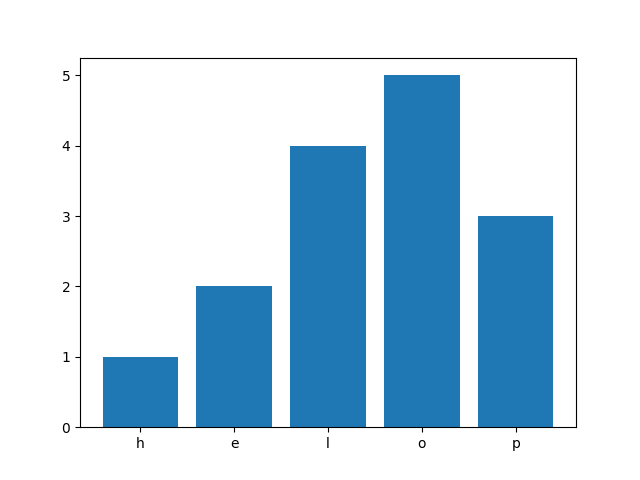
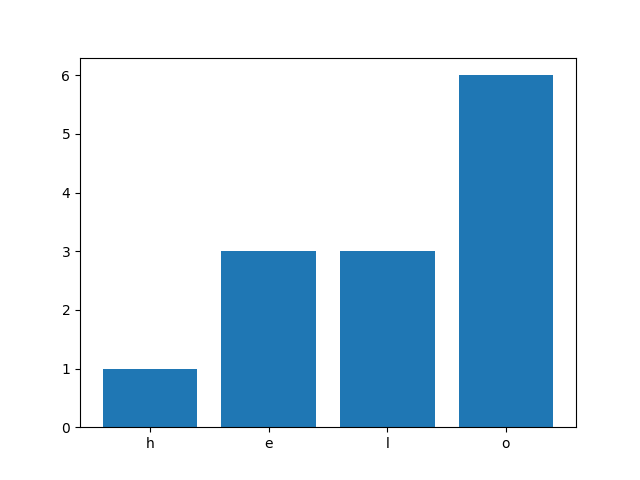
update task #2

diff --git a/lab_5/task2.py b/lab_5/task2.py
@@ -5,16 +5,19 @@ def func():
     user_str = str(input("Enter your string: \n"))
     data = []
     vocabulary = {}
+    count = 1
 
     for i in user_str.split():
         data.append(i)
 
     for word in data:
-        count = 1
         for symbol in word:
-            vocabulary[symbol] = count
-            if symbol in vocabulary.keys():
+            if symbol not in vocabulary.keys():
+                count = 1
+                vocabulary[symbol] = count
+            else:
                 count += 1
+                vocabulary[symbol] = count
 
     print(vocabulary)
 
